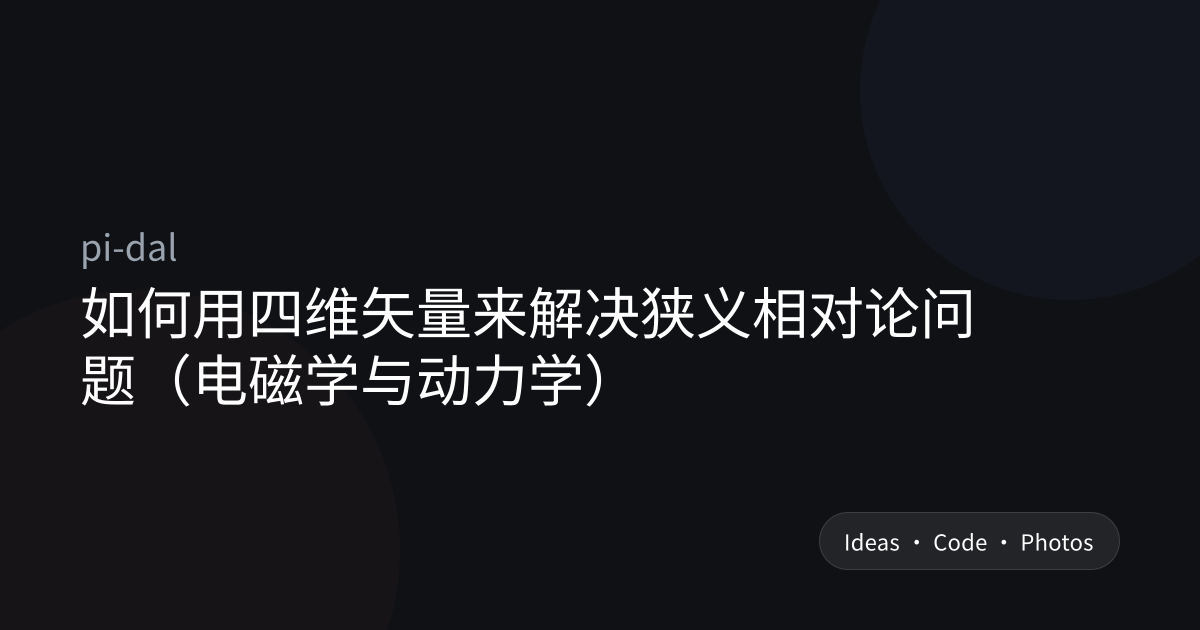
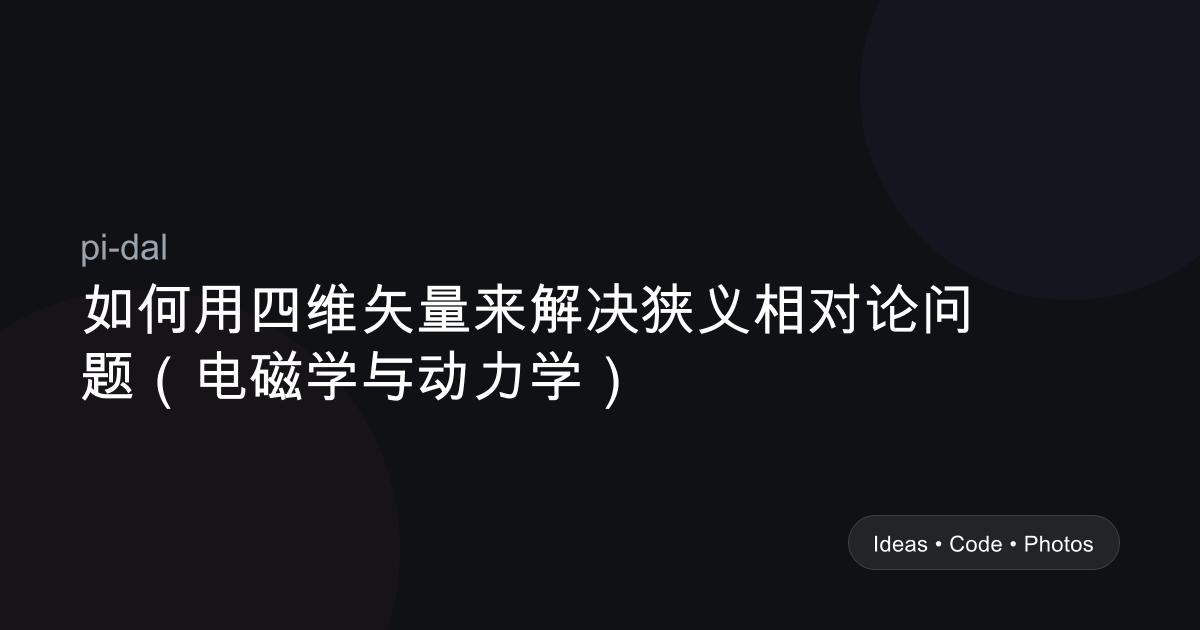
fix(build): rename Vue-enhanced .md to .vue to avoid SFC conflict
STR-Four-Vector-Electromagnetism-and-Dynamics.md contained
<script setup> + <template> + <route> but lacked YAML frontmatter.
unplugin-vue-markdown wrapped it in an SFC that injected a
conflicting 'frontmatter' variable (Identifier 'frontmatter' has
already been declared). Rename to .vue to skip markdown
processing entirely - it was always a Vue SFC, not markdown.

Full local build pipeline verified:
- generate-og.ts: 99 entries ✅
- vite-ssg build: client + server ✅
- rss.ts: RSS generation ✅
- generate-agent-artifacts.ts: llms.txt (8 posts, 87 books) ✅
- pnpm test: 24 files, 58 tests ✅

Changed region(s): [[0.0617, 0.4524, 0.8325, 0.6635], [0.6783, 0.8444, 0.925, 0.8746], [0.0617, 0.3619, 0.1542, 0.4222]]

diff --git a/typed-router.d.ts b/typed-router.d.ts
@@ -27,6 +27,7 @@ declare module 'vue-router/auto-routes' {
     '/books/how-ai-will-revolutionize-education-and-why-that-s-a-good-thing': RouteRecordInfo<'/books/how-ai-will-revolutionize-education-and-why-that-s-a-good-thing', '/books/how-ai-will-revolutionize-education-and-why-that-s-a-good-thing', Record<never, never>, Record<never, never>>,
     '/books/idea-makers-personal-perspectives-on-the-lives-ideas-of-some-notable-people': RouteRecordInfo<'/books/idea-makers-personal-perspectives-on-the-lives-ideas-of-some-notable-people', '/books/idea-makers-personal-perspectives-on-the-lives-ideas-of-some-notable-people', Record<never, never>, Record<never, never>>,
     '/books/make-something-wonderful': RouteRecordInfo<'/books/make-something-wonderful', '/books/make-something-wonderful', Record<never, never>, Record<never, never>>,
+    '/books/manual': RouteRecordInfo<'/books/manual', '/books/manual', Record<never, never>, Record<never, never>>,
     '/books/my-beginnings': RouteRecordInfo<'/books/my-beginnings', '/books/my-beginnings', Record<never, never>, Record<never, never>>,
     '/books/qed-光和物质的奇妙理论': RouteRecordInfo<'/books/qed-光和物质的奇妙理论', '/books/qed-光和物质的奇妙理论', Record<never, never>, Record<never, never>>,
     '/books/reading-notes-xin-sheng-xue-cheng': RouteRecordInfo<'/books/reading-notes-xin-sheng-xue-cheng', '/books/reading-notes-xin-sheng-xue-cheng', Record<never, never>, Record<never, never>>,
@@ -115,10 +116,10 @@ declare module 'vue-router/auto-routes' {
     '/posts/2023-Hangzhou-Travelling': RouteRecordInfo<'/posts/2023-Hangzhou-Travelling', '/posts/2023-Hangzhou-Travelling', Record<never, never>, Record<never, never>>,
     '/posts/ArozOS-RPI-Tutorial': RouteRecordInfo<'/posts/ArozOS-RPI-Tutorial', '/posts/ArozOS-RPI-Tutorial', Record<never, never>, Record<never, never>>,
     '/posts/How-To-Build-A-RPI-NAS-Server': RouteRecordInfo<'/posts/How-To-Build-A-RPI-NAS-Server', '/posts/How-To-Build-A-RPI-NAS-Server', Record<never, never>, Record<never, never>>,
-    '/posts/STR-Four-Vector-Electromagnetism-and-Dynamics': RouteRecordInfo<'/posts/STR-Four-Vector-Electromagnetism-and-Dynamics', '/posts/STR-Four-Vector-Electromagnetism-and-Dynamics', Record<never, never>, Record<never, never>>,
     '/posts/Summary-Of-Junior-High-School-Life': RouteRecordInfo<'/posts/Summary-Of-Junior-High-School-Life', '/posts/Summary-Of-Junior-High-School-Life', Record<never, never>, Record<never, never>>,
     '/posts/To-My-16-Year-Old-Self': RouteRecordInfo<'/posts/To-My-16-Year-Old-Self', '/posts/To-My-16-Year-Old-Self', Record<never, never>, Record<never, never>>,
     '/posts/STR-Four-Vector-Basic-Transformation': RouteRecordInfo<'/posts/STR-Four-Vector-Basic-Transformation', '/posts/STR-Four-Vector-Basic-Transformation', Record<never, never>, Record<never, never>>,
+    '/posts/STR-Four-Vector-Electromagnetism-and-Dynamics': RouteRecordInfo<'/posts/STR-Four-Vector-Electromagnetism-and-Dynamics', '/posts/STR-Four-Vector-Electromagnetism-and-Dynamics', Record<never, never>, Record<never, never>>,
     '/projects': RouteRecordInfo<'/projects', '/projects', Record<never, never>, Record<never, never>>,
   }
 }